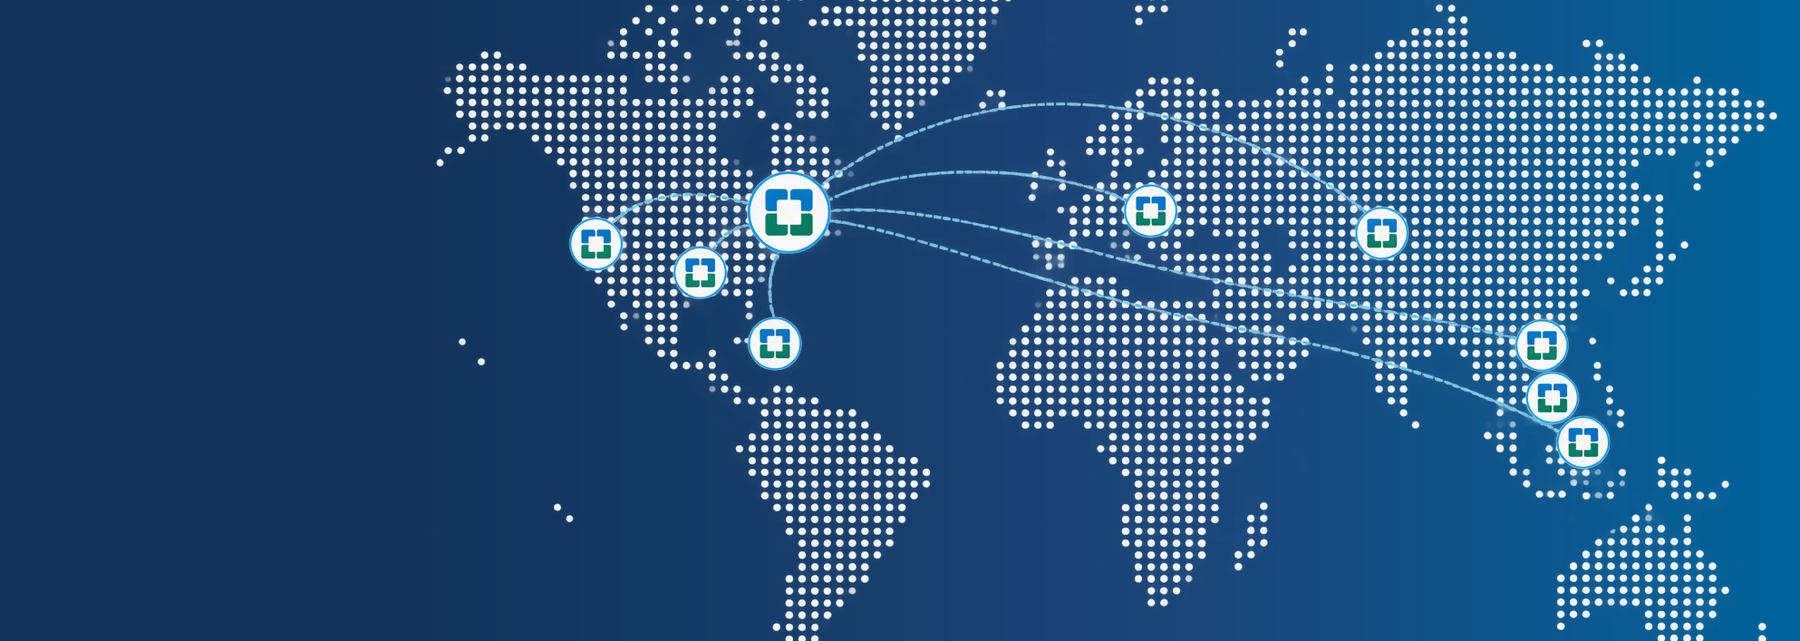
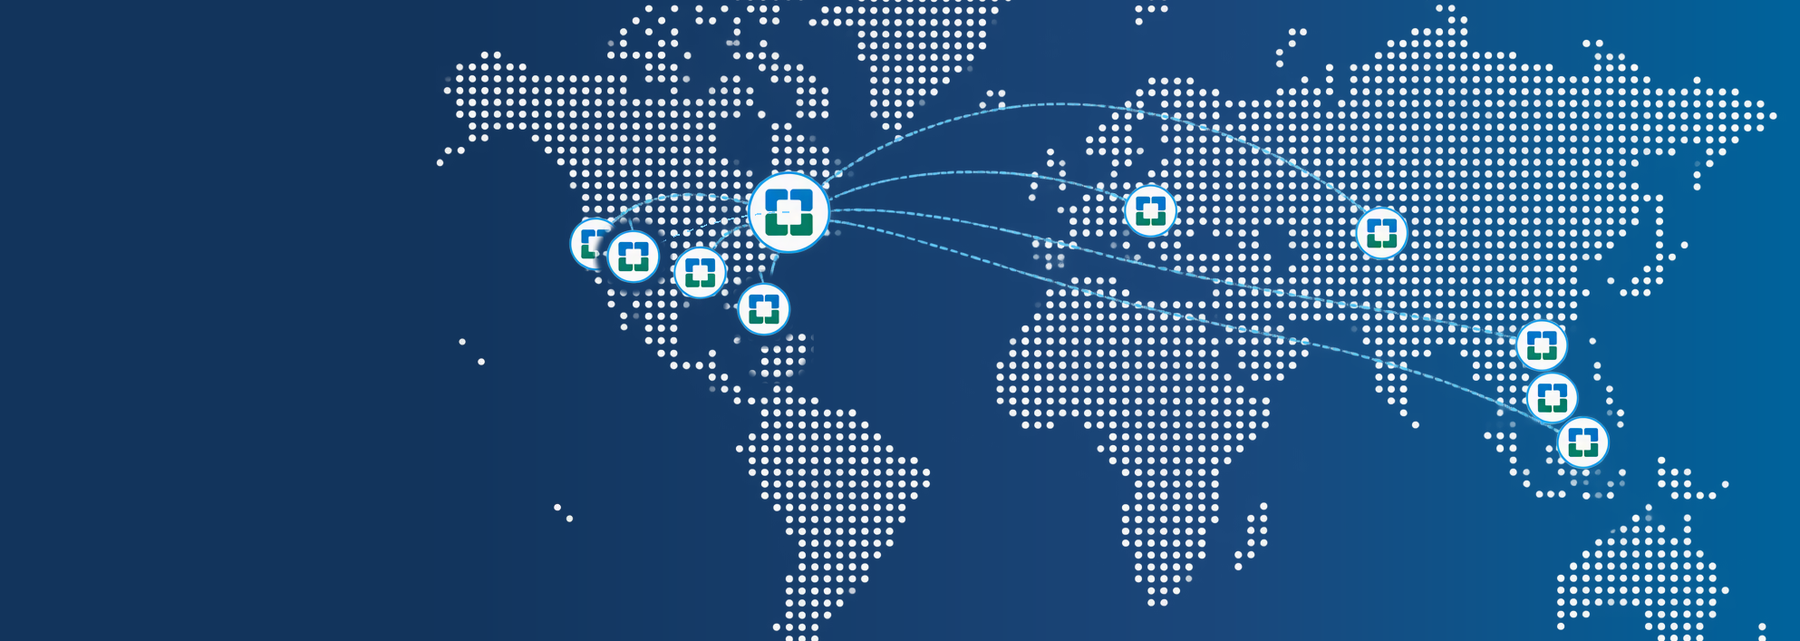
Fix Parrish Medical Center marker placement and add Carson Valley Health
Move the Florida marker off the Caribbean gap onto the mapped landmass, add a
Carson Valley Health marker and route next to Barton Health, and add Carson
Valley Health to the Members section (photo pending).

Claude-Session: https://claude.ai/code/session_015cRJGYsqxC4ioKwXU3uZyQ

diff --git a/index.html b/index.html
@@ -475,6 +475,11 @@
               <p class="member-place">California, United States</p>
             </li>
             <li class="member">
+              <div class="member-placeholder" role="img" aria-label="Carson Valley Health"></div>
+              <p class="member-name">Carson Valley Health</p>
+              <p class="member-place">Nevada, United States</p>
+            </li>
+            <li class="member">
               <img src="assets/img/members/columbus-regional-health.jpg" alt="Columbus Regional Health" width="640" height="425" loading="lazy" decoding="async">
               <p class="member-name">Columbus Regional Health</p>
               <p class="member-place">Indiana, United States</p>

diff --git a/assets/styles.css b/assets/styles.css
@@ -211,6 +211,7 @@ transition: transform 1200ms var(--ease), opacity 1200ms var(--ease);
 .network-lede { color: var(--slate); font-size: 16px; }
 .members { list-style: none; padding: 0; display: grid; grid-template-columns: repeat(4, minmax(0, 1fr)); gap: 32px 24px; }
 .member img { width: 100%; height: auto; aspect-ratio: 3 / 2; object-fit: cover; border-radius: var(--radius); background: var(--mist); }
+.member-placeholder { width: 100%; aspect-ratio: 3 / 2; border-radius: var(--radius); background: var(--mist); }
 .member-name { font-size: 16.5px; font-weight: 500; color: var(--ink); line-height: 1.3; margin-top: 12px; }
 .member-place { font-size: 14px; color: var(--slate); margin-top: 3px; }
 
